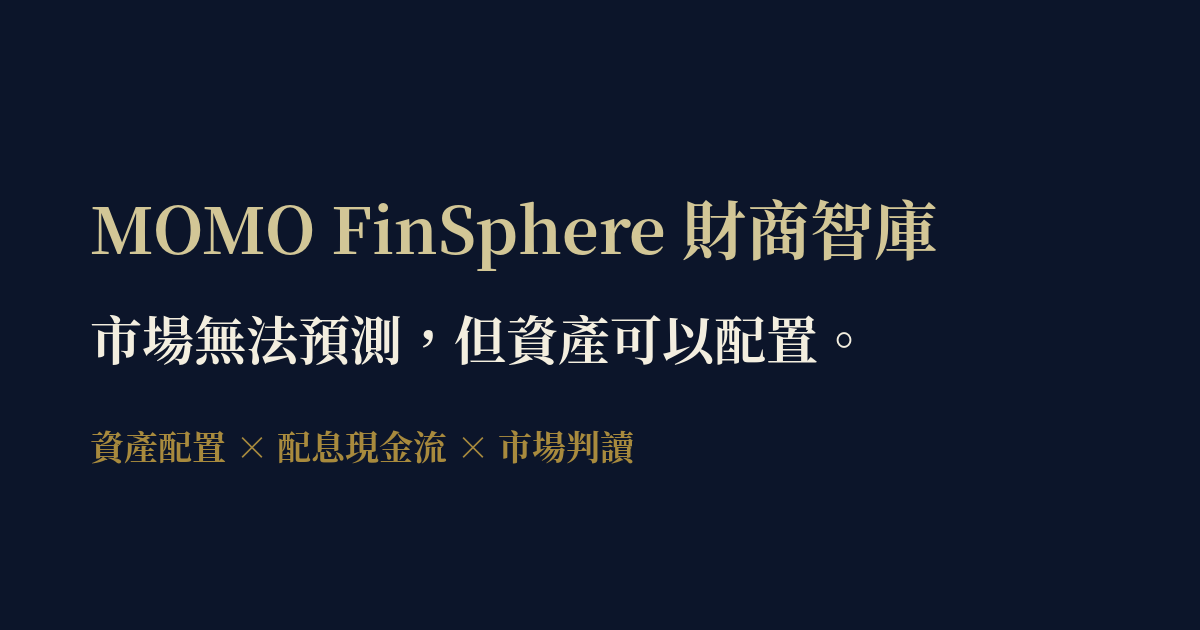
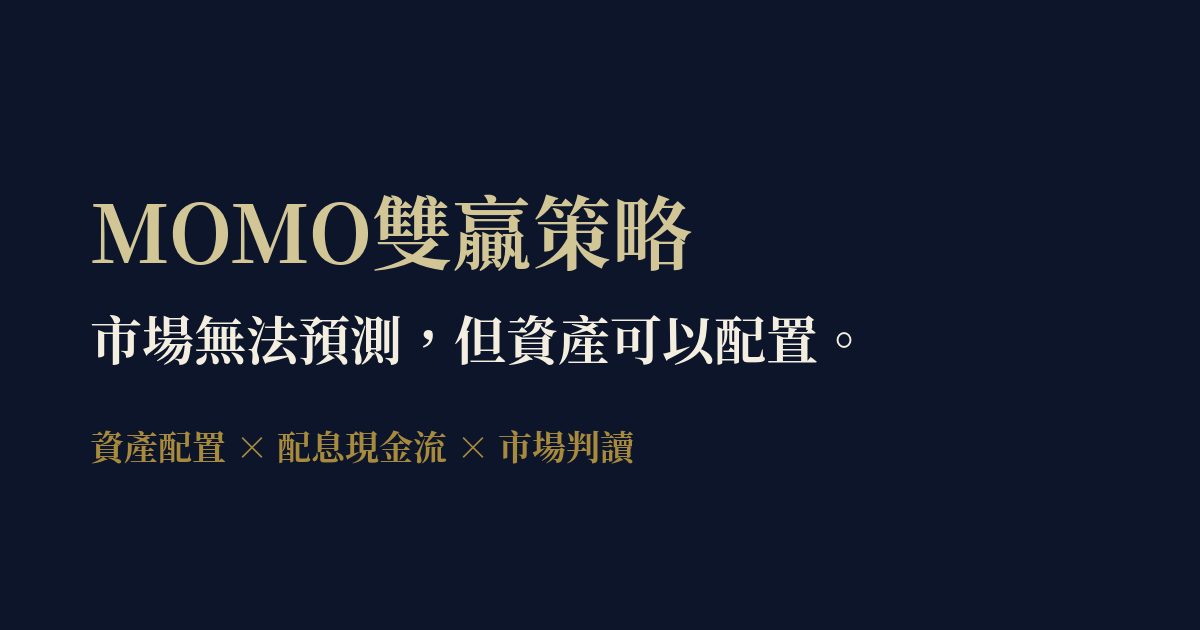
Add files via upload

Changed region(s): [[0.0617, 0.3016, 0.8017, 0.4524]]

diff --git a/src/site.config.ts b/src/site.config.ts
@@ -4,10 +4,10 @@
 
 export const SITE = {
   /** 網站名稱 */
-  name: 'MOMO FinSphere 財商智庫',
+  name: 'MOMO雙贏策略',
   /** 一句話介紹（首頁、搜尋結果、llms.txt 會用到） */
   description:
-    '台灣財務顧問 MOMO 的資產配置筆記：配息現金流、投資型保單基金、市場判讀。用白話把基金與配置講清楚。',
+    'MOMO 的資產配置筆記：配息現金流、保單基金規劃、市場判讀。用白話把基金與配置講清楚。',
   /** 語系 */
   lang: 'zh-Hant-TW',
   locale: 'zh_TW',
@@ -16,27 +16,37 @@ export const SITE = {
 export const AUTHOR = {
   name: 'MOMO（余明哲）',
   alternateName: ['MOMO', '余明哲', '明哲MOMO'],
-  /** 職稱 */
-  jobTitle: '財務顧問',
-  /** 服務單位 */
-  worksFor: '允崴營業部',
-  /** 作者介紹（關於頁、文章底部、結構化資料都會用到） */
-  bio: '專注投資型保單基金與資產配置，長期追蹤安達、元大、安聯、法巴等平台基金。主張「真實報酬 = 配息 + 淨值變化」，用核心衛星配置與動態再平衡，幫客戶建立穩定的配息現金流。',
+  /** 名字下方的介紹文字 */
+  jobTitle: '保單基金規劃・資產配置教育',
   /**
-   * 專業證照／資格。AI 判斷內容可信度時會參考這裡。
-   * TODO：請改成你實際持有的證照。
+   * 服務單位（選填）。留空就不會顯示。
+   * 確認公司法遵規定後，可以改成例如 '高成保險經紀人'
    */
-  credentials: ['人身保險業務員', '投資型保險商品業務員', '財產保險業務員', '外幣收付之非投資型保險商品業務員','信託業業務人員','投信投顧相關法規'],
+  worksFor: '',
+  /** 作者介紹（關於頁、文章底部、結構化資料都會用到） */
+  bio: '專注投資型保單內的基金配置，長期追蹤各類型基金的配息與淨值表現。主張「真實報酬 = 配息 + 淨值變化」，用核心衛星配置與動態再平衡，協助客戶規劃長期的配息現金流。',
+  /**
+   * 專業資格（選填）。留空就不會顯示「專業資格」區塊。
+   * 例如：['人身保險業務員', '投資型保險商品業務員']
+   */
+  credentials: [
+    '人身保險業務員',
+    '投資型保險商品業務員',
+    '財產保險業務員',
+    '外幣收付之非投資型保險商品業務員',
+    '信託業業務人員',
+    '投信投顧相關法規',
+  ] as string[],
   /** 作者大頭照，放在 public/ 底下 */
   avatar: '/avatar.png',
 };
 
 export const LINKS = {
-  /** TODO：官方 LINE 加好友網址（例如 https://lin.ee/xxxxxxx） */
+  /** 官方 LINE 加好友網址 */
   line: 'https://lin.ee/sdrEuGA',
   /** LINE 上的關鍵字（文末 CTA 會顯示「LINE 輸入『配置』」） */
   lineKeyword: '配置',
-  /** TODO：IG 帳號網址 */
+  /** IG 帳號網址 */
   instagram: 'https://www.instagram.com/momo_82786/',
   threads: 'https://www.threads.net/@momo_82786',
 };
@@ -61,3 +71,6 @@ export function withUtm(url: string, campaign: string, content = 'cta') {
 /** 金融商品宣傳免責聲明，每一頁頁尾都會自動顯示 */
 export const DISCLAIMER =
   '本網站內容僅供教育與資訊分享，不構成任何投資建議或商品推介。基金與投資型保單之投資風險由要保人自行承擔，過去績效不代表未來表現，配息率不代表報酬率，且配息可能由本金支出。投資前請詳閱商品說明書及公開說明書，並依自身財務狀況與風險承受度審慎評估。';
+
+/** 名字下方的完整介紹，例如「保單基金規劃・資產配置教育」或「保單基金規劃・資產配置教育・高成保險經紀人」 */
+export const AUTHOR_TAGLINE = [AUTHOR.jobTitle, AUTHOR.worksFor].filter(Boolean).join('・');

diff --git a/README.md b/README.md
@@ -1,4 +1,4 @@
-# MOMO FinSphere 財商智庫｜文章網站
+# MOMO雙贏策略｜文章網站
 
 IG 輪播圖的網站版。每篇文章是一個資料夾，push 到 GitHub 後會自動上線。
 
